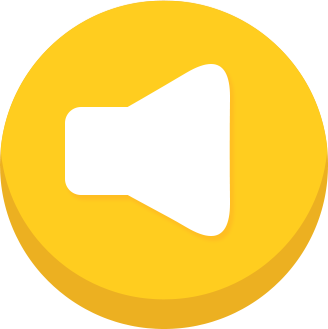
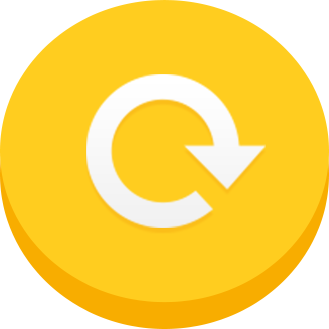
Fixed restart button.

diff --git a/core/src/mx/itesm/sheep/InstructionsScreen.java b/core/src/mx/itesm/sheep/InstructionsScreen.java
@@ -1,0 +1,73 @@
+package mx.itesm.sheep;
+
+import com.badlogic.gdx.Gdx;
+import com.badlogic.gdx.graphics.Texture;
+import com.badlogic.gdx.graphics.g2d.TextureRegion;
+import com.badlogic.gdx.scenes.scene2d.InputEvent;
+import com.badlogic.gdx.scenes.scene2d.Stage;
+import com.badlogic.gdx.scenes.scene2d.ui.ImageButton;
+import com.badlogic.gdx.scenes.scene2d.utils.ClickListener;
+import com.badlogic.gdx.scenes.scene2d.utils.TextureRegionDrawable;
+
+/**
+ * Created by josekotasek on 27/10/17.
+ */
+
+public class InstructionsScreen extends MainScreen {
+
+    private final Juego juego;
+
+    private Texture instrucciones;
+    private Stage escenaInstrucciones;
+
+    public InstructionsScreen(Juego juego){
+        this.juego = juego;
+    }
+    @Override
+    public void show() {
+        cargarTexturas();
+        crearEscenaInstructions();
+        Gdx.input.setInputProcessor(escenaInstrucciones);
+    }
+
+    private void crearEscenaInstructions() {
+        escenaInstrucciones = new Stage(vista);
+        TextureRegionDrawable instr = new TextureRegionDrawable(new TextureRegion(instrucciones));
+        final ImageButton botinstr = new ImageButton(instr);
+        botinstr.setPosition(0,0);
+        escenaInstrucciones.addActor(botinstr);
+        botinstr.addListener( new ClickListener() {
+            @Override
+            public void clicked(InputEvent event, float x, float y) {
+                super.clicked(event, x, y);
+                juego.setScreen(new GameScreen(juego));
+            }
+        } );
+    }
+
+    private void cargarTexturas() {
+        instrucciones = new Texture("empty.png");
+    }
+
+    @Override
+    public void render(float delta) {
+        borrarPantalla(0,0,0);
+        batch.setProjectionMatrix(camara.combined);
+        escenaInstrucciones.draw();
+    }
+
+    @Override
+    public void pause() {
+
+    }
+
+    @Override
+    public void resume() {
+
+    }
+
+    @Override
+    public void dispose() {
+
+    }
+}

diff --git a/core/src/mx/itesm/sheep/SettingsScreen.java b/core/src/mx/itesm/sheep/SettingsScreen.java
@@ -33,6 +33,7 @@ public class SettingsScreen extends MainScreen {
     private ImageButton btnNoMusic;
 
     private Music music;
+    private Texture fxButtonPr;
 
 
     public SettingsScreen(Juego juego){
@@ -50,6 +51,7 @@ public class SettingsScreen extends MainScreen {
         bg = new Texture("sBg.png");
         musicButton = new Texture("buttons/unpressed/music.png");
         fxButton  =  new Texture("fx.png");
+        fxButtonPr  =  new Texture("pressedFx.png");
         backButton = new Texture("buttons/unpressed/backButton.png");
         pressedMusicButton = new Texture("buttons/pressed/pressedMusicButton.png");
         pressedBackButton = new Texture("buttons/pressed/pressedBackButton.png");
@@ -118,14 +120,19 @@ public class SettingsScreen extends MainScreen {
 
     // FX button ------------------------------------------------------
 
-        TextureRegionDrawable trdFx = new
-                TextureRegionDrawable(new TextureRegion(fxButton));
-        final ImageButton btnFx = new ImageButton(trdFx);
-        btnFx.setPosition(374,1167);
-        escenaSettings.addActor(btnFx);
+        TextureRegionDrawable trdFx = new TextureRegionDrawable(new TextureRegion(fxButton));
+        TextureRegionDrawable trdFxpr = new TextureRegionDrawable(new TextureRegion(fxButtonPr));
+        final ImageButton btnres = new ImageButton(trdFx,trdFxpr);
+        btnres.setPosition(374,1167);
+        escenaSettings.addActor(btnres);
+        btnres.addListener( new ClickListener() {
+            @Override
+            public void clicked(InputEvent event, float x, float y) {
+                super.clicked(event, x, y);
+                pref.putBoolean("played", false);
+            }
+        } );
     //-----------------------------------------------------------------
-
-
 
         TextureRegionDrawable trdBack = new
                 TextureRegionDrawable(new TextureRegion(backButton));

diff --git a/core/src/mx/itesm/sheep/Oveja.java b/core/src/mx/itesm/sheep/Oveja.java
@@ -109,7 +109,6 @@ public class Oveja {
                         y--;
                     }
                 }else {
-                    timer = 0;
                     batch.draw(region, x, y);
                 }
                 break;
@@ -120,7 +119,6 @@ public class Oveja {
                         y++;
                     }
                 }else {
-                    timer = 0;
                     batch.draw(region, x, y);
                 }
                 break;
@@ -131,7 +129,6 @@ public class Oveja {
                         x++;
                     }
                 }else {
-                    timer = 0;
                     batch.draw(region, x, y);
                 }
                 break;
@@ -142,7 +139,6 @@ public class Oveja {
                         x--;
                     }
                 }else {
-                    timer = 0;
                     batch.draw(region, x, y);
                 }
                 break;
@@ -156,6 +152,7 @@ public class Oveja {
                 break;
             case CONTINUAR:
                 this.estado = estadoOriginal;
+                break;
         }
     }
 

diff --git a/core/src/mx/itesm/sheep/MenuScreen.java b/core/src/mx/itesm/sheep/MenuScreen.java
@@ -53,6 +53,7 @@ class MenuScreen extends MainScreen
 
     public MenuScreen(Juego juego) {
         this.juego = juego;
+        pref.putBoolean("played", pref.getBoolean("played"));
     }
 
     @Override
@@ -86,7 +87,16 @@ class MenuScreen extends MainScreen
             @Override
             public void clicked(InputEvent event, float x, float y) {
                 super.clicked(event, x, y);
-                juego.setScreen(new GameScreen(juego));
+                juego.setScreen(new InstructionsScreen(juego));
+
+                if(pref.getBoolean("played")){
+                    juego.setScreen(new GameScreen(juego));
+                }
+                else{
+                    juego.setScreen(new InstructionsScreen(juego));
+                }
+                pref.putBoolean("played",true);
+                System.out.println(pref.getBoolean("played"));
                 juego.pauseMenuMusic();
             }
         } );

diff --git a/core/src/mx/itesm/sheep/aboutScreen.java b/core/src/mx/itesm/sheep/aboutScreen.java
@@ -56,10 +56,8 @@ class aboutScreen extends MainScreen {
         escenaAyuda.addActor(bg);
 
         // Botón regresar
-        TextureRegionDrawable trdBack = new
-                TextureRegionDrawable(new TextureRegion(backButton));
-        TextureRegionDrawable trdBackpr = new
-                TextureRegionDrawable(new TextureRegion(pressedBackButton));
+        TextureRegionDrawable trdBack = new TextureRegionDrawable(new TextureRegion(backButton));
+        TextureRegionDrawable trdBackpr = new TextureRegionDrawable(new TextureRegion(pressedBackButton));
         final ImageButton btnBack = new ImageButton(trdBack, trdBackpr);
         btnBack.setPosition(461,120);
         escenaAyuda.addActor(btnBack);

diff --git a/core/src/mx/itesm/sheep/GameScreen.java b/core/src/mx/itesm/sheep/GameScreen.java
@@ -251,11 +251,11 @@ public class GameScreen extends MainScreen {
 
             batch.begin();
             batch.draw(bg, 0, 0);
-            batch.draw(time,818,1814);
+            batch.draw(time,748,1814);
             if(seconds>=10){
-                font.draw(batch,Integer.toString(minutes)+ ":"+ Integer.toString(seconds),893,1888);
+                font.draw(batch,Integer.toString(minutes)+ ":"+ Integer.toString(seconds),823,1888);
             }else{
-                font.draw(batch,Integer.toString(minutes)+ ":0"+ Integer.toString(seconds),893,1888);
+                font.draw(batch,Integer.toString(minutes)+ ":0"+ Integer.toString(seconds),823,1888);
             }
 
 

diff --git a/core/src/mx/itesm/sheep/Juego.java b/core/src/mx/itesm/sheep/Juego.java
@@ -17,6 +17,7 @@ public class Juego extends Game
 		menuMusic = Gdx.audio.newMusic(Gdx.files.internal("music/menuMusic.mp3"));
 		bee = Gdx.audio.newMusic(Gdx.files.internal("music/beee.mp3"));
 		gameMusic = Gdx.audio.newMusic(Gdx.files.internal("music/gameMusic.mp3"));
+
 	}
 
 	public void startMenuMusic(){
